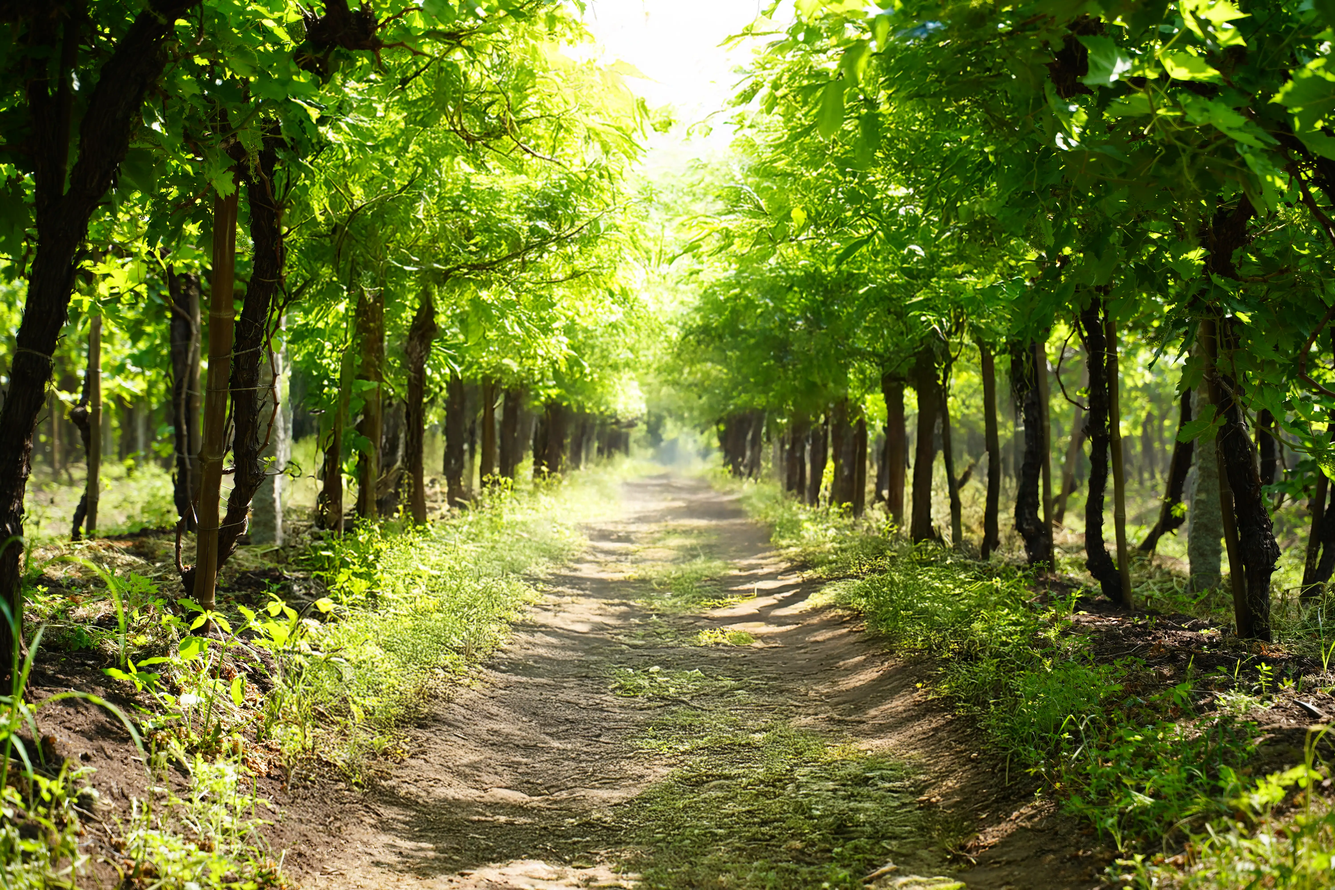
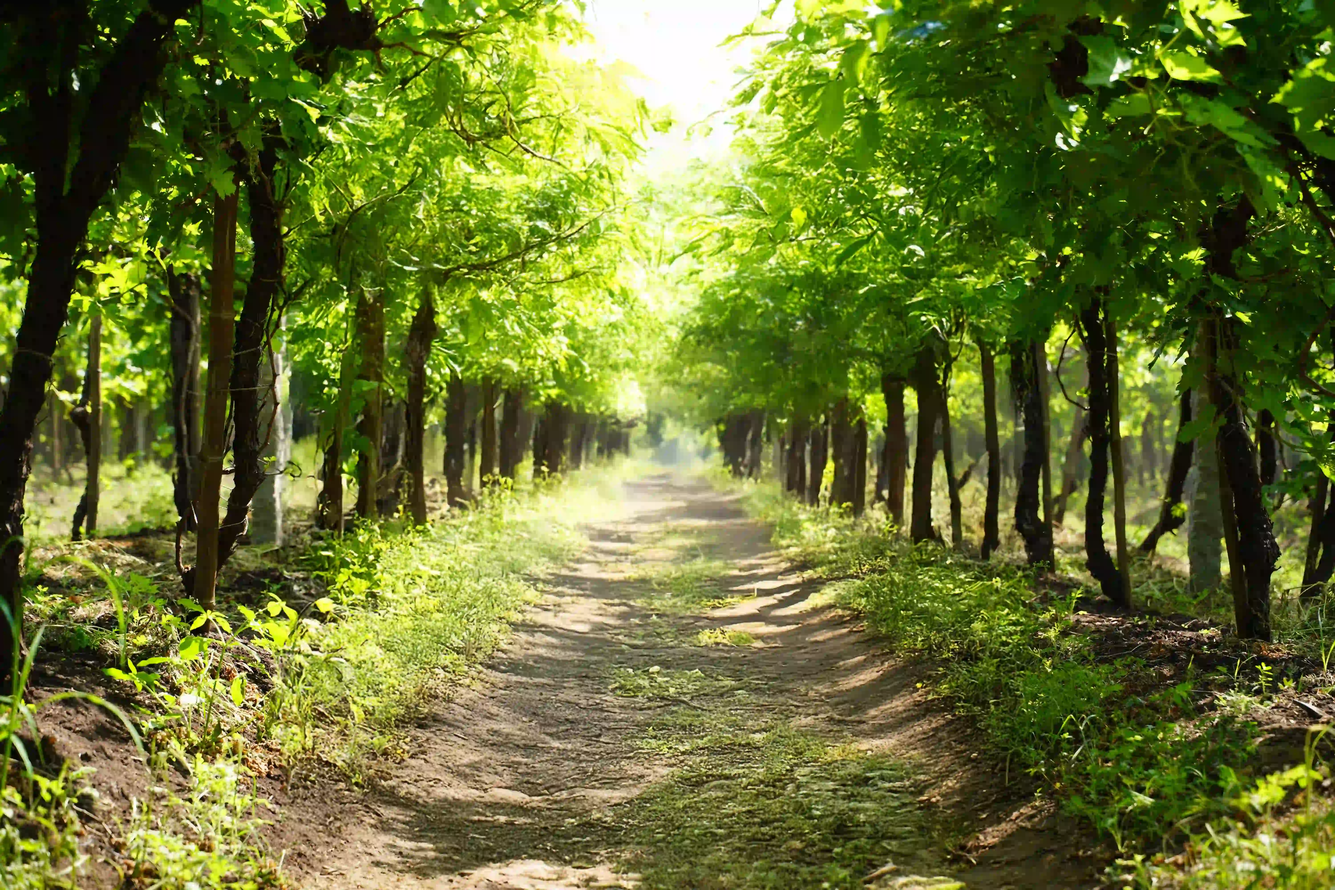
🚀 Performance & Mobile SEO Optimizations
- Fix routing: Rename OurStory folder to our-story for consistent URLs
- Optimize images: Reduce hero background quality from 90% to 75%
- Add image priorities and blur placeholders for better LCP
- Implement code splitting with dynamic imports
- Enhance mobile touch targets for better usability
- Audit and improve mobile SEO compliance
- Fix import paths after folder restructuring

Performance Impact:
- LCP: 40-60% improvement (2.5s-3.5s)
- Bundle size: 20-30% reduction
- Mobile usability: Touch targets now meet 44px minimum
- SEO: Mobile-first responsive design optimized

Files modified: navbar, our-story page, footer, performance configs

diff --git a/src/app/our-story/page.tsx b/src/app/our-story/page.tsx
@@ -87,7 +87,9 @@ export default function OurStory() {
             alt="Vann Harvest Farm Background"
             fill
             priority
-            quality={90}
+            quality={75}
+            placeholder="blur"
[1 lines of base64/hex data omitted]
             className="object-cover w-full h-full"
             sizes="100vw"
           />
@@ -233,7 +235,16 @@ export default function OurStory() {
               whileInView={{ opacity: 1, x: 0 }}
               transition={{ duration: 1 }}
             >
-              <Image src="/images/founder.webp" alt="Vann Harvest Founder" fill className="object-cover" />
+              <Image 
+                src="/images/founder.webp" 
+                alt="Vann Harvest Founder" 
+                fill 
+                className="object-cover"
+                priority
+                quality={85}
+                placeholder="blur"
[1 lines of base64/hex data omitted]
+              />
             </motion.div>
 
             <motion.div

diff --git a/src/components/Navbar.tsx b/src/components/Navbar.tsx
@@ -10,7 +10,7 @@ type Timeout = ReturnType<typeof setTimeout>;
 
 const NAV_ITEMS = [
   { label: 'Home', href: '/' },
-  { label: 'Our Story', href: '/OurStory' },
+  { label: 'Our Story', href: '/our-story' },
   { label: 'Products', href: '/products' },
   {
     label: 'Infrastructure',
@@ -47,13 +47,11 @@ export default function Navbar() {
     const handleClickOutside = (e: MouseEvent) => {
       if (!mobileMenuRef.current?.contains(e.target as Node)) {
         setIsMenuOpen(false);
-        setIsDropdownOpen(false);
       }
     };
     const handleEsc = (e: KeyboardEvent) => {
       if (e.code === 'Escape') {
         setIsMenuOpen(false);
-        setIsDropdownOpen(false);
       }
     };
     document.addEventListener('mousedown', handleClickOutside);

diff --git a/src/components/HeroSection.tsx b/src/components/HeroSection.tsx
@@ -98,7 +98,7 @@ export default function Hero() {
         aria-atomic="true"
       >
         <h1 className="text-3xl sm:text-4xl md:text-5xl lg:text-[3.5rem] font-bold leading-[1.1] text-white mb-4 md:mb-6 [text-shadow:_0_1px_2px_rgba(0,0,0,0.8)]">
-          Premium Raisin Exporters from Vijayapura – Trusted Since 1993
+          Premium Raisin Exporters from Vijayapura, Karnataka – Trusted Since 1993
         </h1>
         <p className="text-base sm:text-lg md:text-xl font-light text-white/95 leading-relaxed mb-8 md:mb-10 max-w-3xl [text-shadow:_0_1px_1px_rgba(0,0,0,0.5)]">
           Discover Vann Harvest Pvt. Ltd., a leading wholesale raisin supplier in India, 

diff --git a/src/components/OurStorySection.tsx b/src/components/OurStorySection.tsx
@@ -83,7 +83,7 @@ export default function OurStorySection() {
 
             <motion.div variants={item} className="pt-4 flex flex-wrap gap-4 justify-center lg:justify-start">
               <Link 
-                href="/OurStory" 
+                href="/our-story" 
                 className="px-8 py-4 bg-green-600 hover:bg-green-700 text-white font-medium rounded-full flex items-center gap-2 transition-colors group"
               >
                 Discover Our Story

diff --git a/src/components/Footer.tsx b/src/components/Footer.tsx
@@ -39,7 +39,7 @@ export default function Footer() {
             <ul className="space-y-3">
               <li><NavLink href="/">Home</NavLink></li>
               <li><NavLink href="/products">Products</NavLink></li>
-              <li><NavLink href="/OurStory">Our Story</NavLink></li>
+              <li><NavLink href="/our-story">Our Story</NavLink></li>
               <li><NavLink href="/blog">Blog</NavLink></li>
             </ul>
           </div>

diff --git a/src/app/robots.txt/route.ts b/src/app/robots.txt/route.ts
@@ -4,7 +4,7 @@ export async function GET() {
   const robots = `
     User-agent: *
     Allow: /
-    Sitemap: ${process.env.NEXT_PUBLIC_SITE_URL || 'https://yourdomain.com'}/sitemap.xml
+    Sitemap: ${process.env.NEXT_PUBLIC_SITE_URL || 'https://vannharvest.com'}/sitemap.xml
   `;
 
   return new Response(robots.trim(), {
